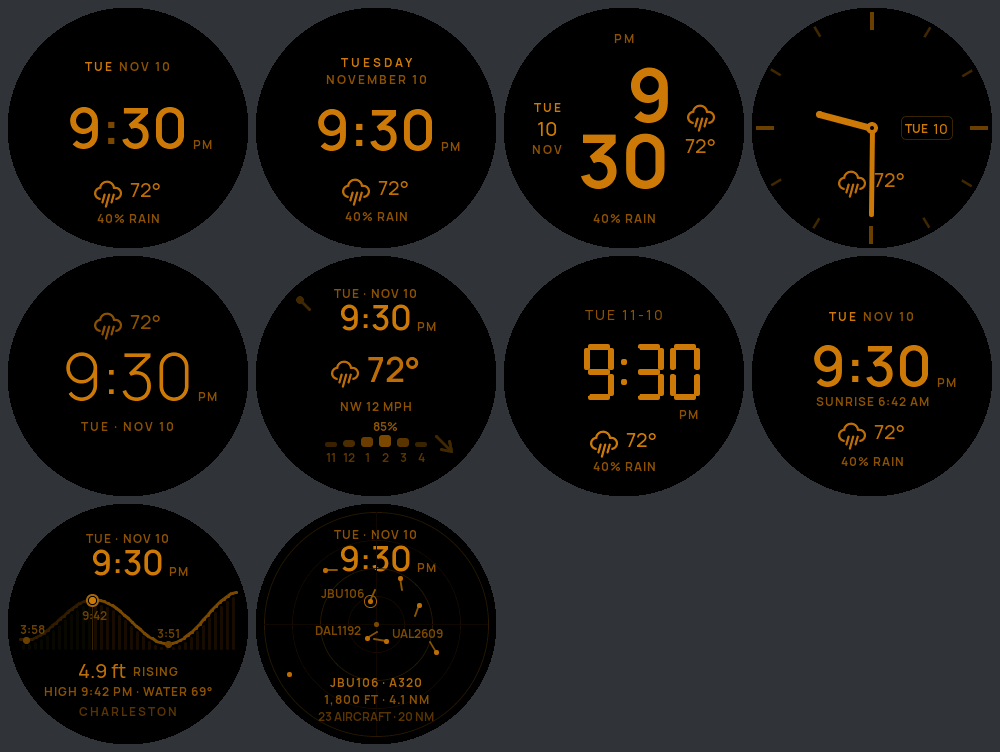
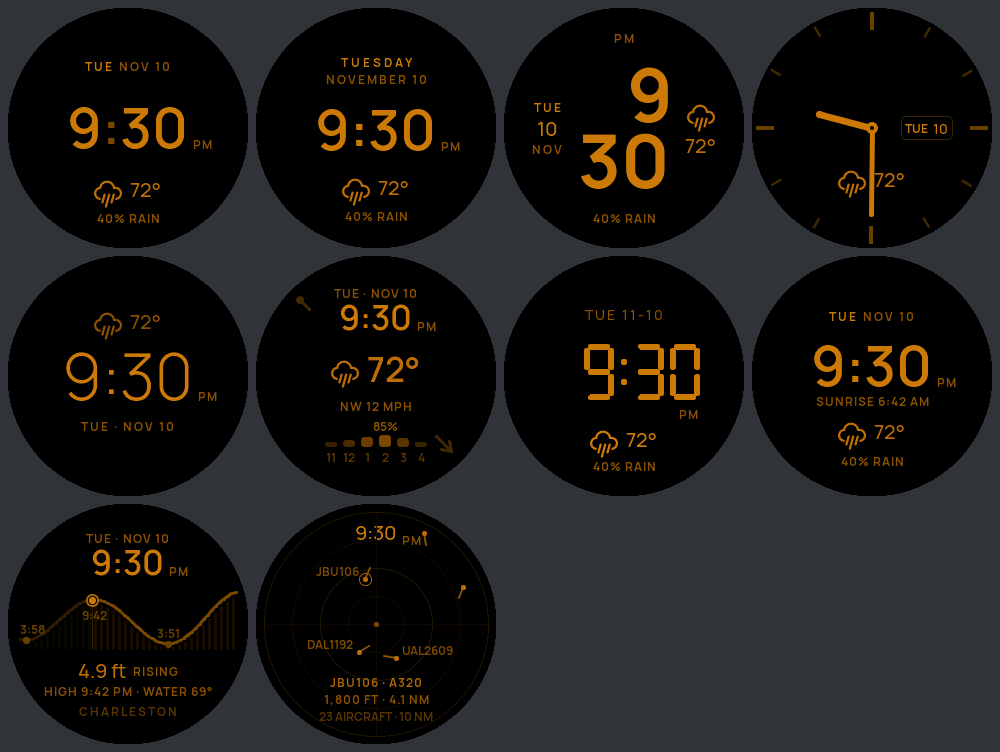
Radar: 10 NM scope, no date, smaller time; smoother sweep
- RADAR_NM 20 -> 10 for a closer view of distance
- Drop the date row and shrink the time (20 pt) so the scope gets the face
- Sweep period follows RADAR_POLL_MS; two wedge segments instead of four
- Beam advances by capped elapsed time, so stalls slow it instead of jumping
- Skip unchanged blip moves, tag placement and label text each second
- Regenerated face renders

Changed region(s): [[0.31, 0.7035, 0.434, 0.7952], [0.31, 0.8258, 0.465, 0.887], [0.31, 0.9481, 0.434, 0.9787]]

diff --git a/src/ui/faces/face_radar.cpp b/src/ui/faces/face_radar.cpp
@@ -1,5 +1,6 @@
 #include "../ui_internal.h"
 #include "../../data/aircraft.h"
+#include <climits>
 
 namespace ui {
 
@@ -14,8 +15,9 @@ static constexpr int MAXP = AircraftData::MAX;
 static constexpr int TAGS = 3;             // nearest aircraft that get a callsign
 static constexpr int BOX = 29, MID = 14;   // blip container (leader line + dot) and its centre
 static constexpr float LEAD = 12;          // track leader length from the dot's centre, px
-static constexpr uint32_t SWEEP_MS = 4000; // one revolution
-static constexpr int TRAIL = 4;            // sweep afterglow segments
+static constexpr uint32_t SWEEP_MS = RADAR_POLL_MS;  // one revolution per fetch (tuning.h)
+static constexpr uint32_t SWEEP_MAX_DT = 100; // ms: largest step of the beam per frame
+static constexpr int TRAIL = 2;            // sweep afterglow segments (each costs two redraw slivers per frame)
 static constexpr uint32_t PHOSPHOR = 0x2EE59D;
 
 static lv_obj_t *rings[RINGS], *crossH, *crossV, *home, *sweepBox, *sweep[TRAIL];
@@ -24,9 +26,12 @@ static lv_obj_t *nearLabel, *infoLabel, *countLabel, *msgLabel;
 static lv_point_precise_t leadPts[MAXP][2];  // must outlive the line objects
 static int blipX[MAXP], blipY[MAXP];            // dot centres on screen
 static bool blipOn[MAXP];
+static int blipPX[MAXP], blipPY[MAXP];          // last pixel position pushed to LVGL (INT_MIN = none)
 static float blipDeg[MAXP];                  // bearing of each shown blip (for the sweep brightness)
 static lv_opa_t blipOpa[MAXP];
 static float sweepDeg = 0;
+static uint32_t sweepAt = 0;                 // millis() of the previous sweep step
+static bool tagsDirty = true;                // data or layout changed: re-place the callsign tags
 
 // Cached data (survives rebuilds).
 static Aircraft planes[MAXP];
@@ -37,8 +42,9 @@ static char radarMsg[24] = "SCANNING";
 static bool quiet() { return nightMix == 255; }  // fully night: nothing animates
 
 // ---- Sweep -----------------------------------------------------------------------------------------
-// The beam is a few wedge-shaped arcs (arc width = radius): a bright narrow head, then wider, dimmer trail.
-static const struct { float from, to; lv_opa_t opa; } SEG[TRAIL] = {{0, 3, 120}, {3, 12, 64}, {12, 30, 32}, {30, 60, 14}};
+// The beam is two wedge-shaped arcs (arc width = radius): a bright narrow head, then a wider, dimmer trail. Fewer
+// segments = fewer dirty rectangles per frame; four cost ~60 ms a frame on the C3.
+static const struct { float from, to; lv_opa_t opa; } SEG[TRAIL] = {{0, 5, 110}, {5, 40, 30}};
 
 static lv_opa_t blipBright(float behindDeg) {  // 0 = the beam is on it, 360 = about to be hit again
   int o = 255 - (int)(behindDeg * (255 - 100) / 360);  // floor 100: leaders stay readable between passes
@@ -52,9 +58,15 @@ static void applyBlipOpa(int i, lv_opa_t o) {
   if (i < TAGS) lv_obj_set_style_opa(tag[i], o, 0);
 }
 
-static void sweepExec(void *, int32_t v) {
+static void sweepExec(void *, int32_t) {
   if (!sweepBox || quiet()) return;
-  sweepDeg = v / 10.0f;
+  // Advance by the elapsed time, but at most SWEEP_MAX_DT: after a stall (the HTTPS fetch starves the UI for ~2 s)
+  // the beam just slows down instead of jumping ahead to where the clock says it should be.
+  uint32_t now = millis();
+  uint32_t dt = now - sweepAt;
+  sweepAt = now;
+  if (dt > SWEEP_MAX_DT) dt = SWEEP_MAX_DT;
+  sweepDeg = fmodf(sweepDeg + dt * 360.0f / SWEEP_MS, 360.0f);
   for (int k = 0; k < TRAIL; k++) {
     // lv_arc angles: 0 = 3 o'clock, clockwise; rotation 270 makes 0 = 12 o'clock. The wedge trails the beam.
     int a1 = (int)lroundf(sweepDeg - SEG[k].from), a0 = (int)lroundf(sweepDeg - SEG[k].to);
@@ -76,6 +88,7 @@ static void sweepRun(bool on) {
     for (int i = 0; i < MAXP; i++) applyBlipOpa(i, LV_OPA_COVER);
     return;
   }
+  sweepAt = millis();
   lv_anim_t a;
   lv_anim_init(&a);
   lv_anim_set_var(&a, sweepBox);  // deleted along with sweepBox when the face is torn down
@@ -110,6 +123,10 @@ static void radarPaint() {
   sweepRun(!quiet());
 }
 
+static void setTextIf(lv_obj_t *o, const char *t) {  // label updates that invalidate only when the text changes
+  if (o && strcmp(lv_label_get_text(o), t) != 0) lv_label_set_text(o, t);
+}
+
 static void fmtThousands(int v, char *out, size_t n) {  // 12500 -> "12,500"
   if (v >= 1000) snprintf(out, n, "%d,%03d", v / 1000, v % 1000);
   else snprintf(out, n, "%d", v);
@@ -123,7 +140,7 @@ static void placeTags() {
   for (int i = 0; i < TAGS; i++) {
     bool shown = false;
     if (blipOn[i]) {
-      setText(tag[i], planes[i].flight);
+      setTextIf(tag[i], planes[i].flight);
       lv_obj_update_layout(tag[i]);
       int w = lv_obj_get_width(tag[i]), h = 12;
       int bx = blipX[i], by = blipY[i];
@@ -161,18 +178,19 @@ static void placeTags() {
 static void radarUpdate() {
   if (!sweepBox) return;
   bool have = planeN > 0;
-  setText(msgLabel, planeN ? "" : radarMsg[0] ? radarMsg : "NO AIRCRAFT IN RANGE");
+  setTextIf(msgLabel, planeN ? "" : radarMsg[0] ? radarMsg : "NO AIRCRAFT IN RANGE");
   setHidden(msgLabel, have);
   for (lv_obj_t *o : {nearLabel, infoLabel, target}) setHidden(o, !have);
   char buf[40];
   snprintf(buf, sizeof(buf), "%d AIRCRAFT \xC2\xB7 %d NM", planeTotal, rangeNm);
-  setText(countLabel, buf);
+  setTextIf(countLabel, buf);
   setHidden(countLabel, radarMsg[0] != 0);
 
   // Dead reckoning since the fetch (capped: past a minute the guess is worse than the old fix).
   float age = (millis() - planesAt) / 1000.0f;
   if (age > 60) age = 60;
   float scale = R / rangeNm;
+  bool moved = tagsDirty;
   for (int i = 0; i < MAXP; i++) {
     bool on = i < planeN;
     float px = 0, py = 0;
@@ -186,7 +204,13 @@ static void radarUpdate() {
       blipDeg[i] = fmodf(atan2f(px, -py) * 180 / (float)M_PI + 360, 360);
       // Move first, then the leader: its redraw then falls inside the box's own (deduplicated by LVGL), so a
       // second's update costs ~2 dirty areas per blip instead of 4 (see LV_INV_BUF_SIZE in lv_conf.h).
-      lv_obj_set_pos(blip[i], (int)lroundf(RING_CENTER + px) - MID, (int)lroundf(RING_CENTER + py) - MID);
+      int sx = (int)lroundf(RING_CENTER + px), sy = (int)lroundf(RING_CENTER + py);
+      if (sx != blipPX[i] || sy != blipPY[i]) {  // slow planes move a pixel only every few seconds: leave them alone
+        blipPX[i] = sx;
+        blipPY[i] = sy;
+        moved = true;
+        lv_obj_set_pos(blip[i], sx - MID, sy - MID);
+      }
       // Leader: LEAD px along the track (from the dot's centre), none when stationary. Unchanged -> left alone.
       float L = a.gs > 30 ? LEAD : 0;
       lv_point_precise_t end = {(lv_value_precise_t)lroundf(MID + L * sinf(t)), (lv_value_precise_t)lroundf(MID - L * cosf(t))};
@@ -196,6 +220,7 @@ static void radarUpdate() {
         lv_line_set_points(blipLead[i], leadPts[i], 2);
       }
     }
+    if (on != blipOn[i]) moved = true;
     setHidden(blip[i], !on);
     blipX[i] = (int)lroundf(RING_CENTER + px);
     blipY[i] = (int)lroundf(RING_CENTER + py);
@@ -206,24 +231,28 @@ static void radarUpdate() {
     if (i == 0) setHidden(target, !on);
   }
 
-  placeTags();
+  if (moved) {
+    placeTags();
+    tagsDirty = false;
+  }
 
   if (have) {  // "UAL2609 · B39M", then "4,950 FT · 3.2 NM"
     const Aircraft &a = planes[0];
     snprintf(buf, sizeof(buf), "%s%s%s", a.flight, a.type[0] ? " \xC2\xB7 " : "", a.type);
-    setText(nearLabel, buf);
+    setTextIf(nearLabel, buf);
     char alt[16] = "";
     if (a.alt > 0) { fmtThousands(a.alt, alt, sizeof(alt)); strlcat(alt, " FT", sizeof(alt)); }
     float t = a.track * (float)M_PI / 180, d = a.gs * age / 3600;
     float dist = hypotf(a.x + d * sinf(t), a.y + d * cosf(t));
     snprintf(buf, sizeof(buf), "%s%s%.1f NM", alt, alt[0] ? " \xC2\xB7 " : "", dist);
-    setText(infoLabel, buf);
+    setTextIf(infoLabel, buf);
   }
 }
 
 static void build() {
-  mkDateRow(-90, 5, 1);
-  mkTime(-66, &manrope_34);
+  tagsDirty = true;
+  for (int i = 0; i < MAXP; i++) blipPX[i] = blipPY[i] = INT_MIN;
+  mkTime(-92, &manrope_20);  // small and tucked at the top so the scope gets the face; no date
   mkOffline(-66, -66);
 
   for (int i = 0; i < RINGS; i++) {
@@ -301,7 +330,6 @@ static FaceDef make() {
   f.name = "Radar";
   f.ring = K_NONE;  // the scope is the face
   f.build = build;
-  f.date = dateQuietLine;
   f.palette = palette;
   f.paint = paint;
   f.onTime = onTime;
@@ -322,5 +350,6 @@ void ui_set_aircraft(const Aircraft *ac, int n, int total, uint32_t at, int rang
   planesAt = at;
   rangeNm = range > 0 ? range : RADAR_NM;
   snprintf(radarMsg, sizeof(radarMsg), "%s", msg ? msg : "");
+  tagsDirty = true;
   if (face().onData) face().onData();  // only the active face's hook runs, so no stale pointers are touched
 }

diff --git a/src/tuning.h b/src/tuning.h
@@ -36,7 +36,7 @@ static constexpr uint32_t WATER_REFRESH_MS = 30UL * 60 * 1000;     // water temp
 static constexpr float TIDE_MAX_STATION_KM = 60;                   // nearest station farther than this: "no tides here"
 
 // ---- Radar (src/data/aircraft.cpp) ------------------------------------------------------------------------
-static constexpr int RADAR_NM = 20;                            // query radius and the scope's outer ring, nautical miles
+static constexpr int RADAR_NM = 10;                            // query radius and the scope's outer ring, nautical miles
 static constexpr uint32_t RADAR_POLL_MS = 10UL * 1000;         // adsb.fi allows 1 request/s; the face dead-reckons between
 static constexpr uint32_t RADAR_BACKOFF_MS = 60UL * 1000;      // after an HTTP error (4xx responses count toward an IP ban)
 static constexpr uint32_t RADAR_STALE_MS = 2UL * 60 * 1000;    // fetches failing this long -> "NO RADAR DATA"

diff --git a/README.md b/README.md
@@ -8,7 +8,7 @@ A digital desk clock for an ESP32-C3 and a 240x240 round GC9A01 display, built w
 - A **seconds ring** around the rim (its style depends on the face)
 - **Weather** from [Open-Meteo](https://open-meteo.com/) (no API key): icon, temperature and the day's high/low, refreshed every 10 minutes
 - **Night mode**: everything turns dim red (or amber, or dim white) after sunset or at fixed hours
-- **Ten clock faces**: Polished (default), Arc, Stacked, Analog, Zen, Forecast, Retro LCD, Daylight, Tide (high/low tide chart from NOAA predictions for the nearest US tide station, or one you pick on the setup page) and Radar (a radar scope with the live aircraft within 20 NM of your ZIP, from [adsb.fi](https://adsb.fi) ADS-B data; polled every 10 s only while the face is showing). Tap the BOOT button to switch; themes, ring style and night colour are on the setup page
+- **Ten clock faces**: Polished (default), Arc, Stacked, Analog, Zen, Forecast, Retro LCD, Daylight, Tide (high/low tide chart from NOAA predictions for the nearest US tide station, or one you pick on the setup page) and Radar (a radar scope with the live aircraft within 10 NM of your ZIP, from [adsb.fi](https://adsb.fi) ADS-B data; polled every 10 s only while the face is showing). Tap the BOOT button to switch; themes, ring style and night colour are on the setup page
 - **No secrets in the firmware**: WiFi, timezone, time/date format, clock face, colour theme, ZIP code and units are set from your phone through a captive-portal setup page on the clock itself
 
 ## What you need

diff --git a/docs/FACES.md b/docs/FACES.md
@@ -65,7 +65,7 @@ Each face is one file, `src/ui/faces/face_<name>.cpp`, that defines a `FaceDef` 
 **Tide** (`face_tide.cpp`; data in [DATA.md](DATA.md#tides)): no seconds ring, so the chart is 216 px wide. A half-cosine runs between turns from −6 h to +12 h with fill columns; "now" is a ringed marker and a thin vertical line. Below the chart: height and trend, `LOW 3:58 PM · WATER 69°`, and the short station name (text before ` (` or `,`, uppercased).
 
 **Radar** (`face_radar.cpp`; data in [DATA.md](DATA.md#radar)):
-- **Scope:** radius 112 px = `RADAR_NM` (20 NM), four range rings, north up.
+- **Scope:** radius 112 px = `RADAR_NM` (10 NM), four range rings, north up.
 - **Sweep:** four wedge `lv_arc`s rotated by an `lv_anim` on `sweepBox`. Each arc's width is radius − 1. **Why:** at width ≥ radius, LVGL's `lv_draw_arc_get_area()` invalidates the whole arc box and redrew the full scope every frame.
 - **Blips:** 29 px boxes (a dot plus a 12 px, 2 px rounded track leader), so moving one invalidates little. The box is moved before the leader is updated, so the leader's redraw falls inside the box's.
 - **Motion:** blips dead-reckon every second from ground speed and track (capped at 60 s). Each blip's opacity follows how long ago the beam passed it (floor 100/255).
